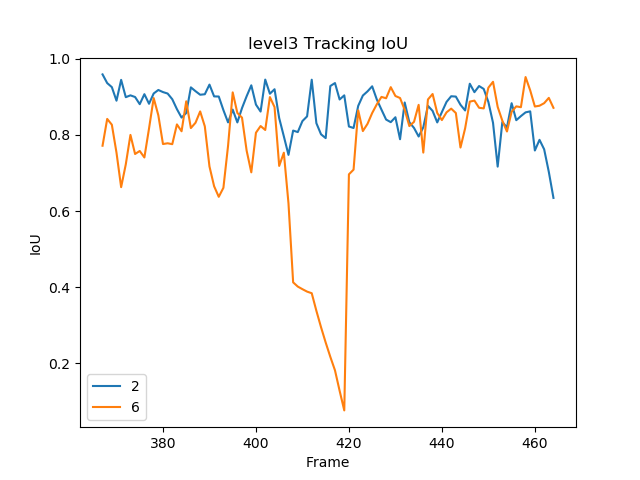
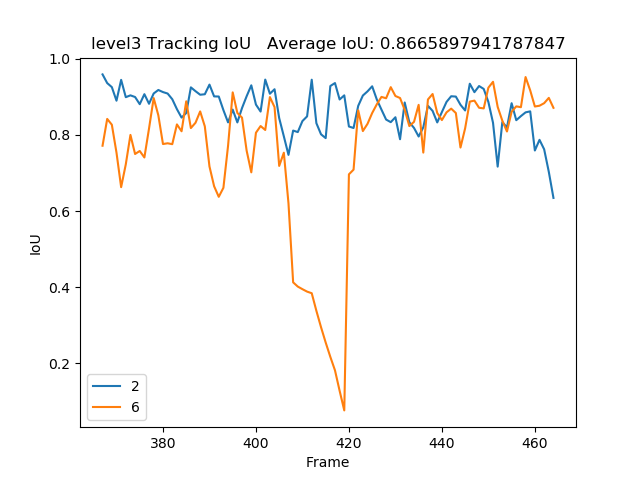
Average IoU

Changed region(s): [[0.125, 0.0625, 0.875, 0.125]]

diff --git a/result_iou.py b/result_iou.py
@@ -58,14 +58,17 @@ def level12():
         frame_label.append(int(detect_list[num].split(',')[1]))
         frame_iou.append(get_iou(list(map(int, detect_list[num].rstrip('\n').split(',')[2:6])), list(map(int, gt_list[num].rstrip('\n').split(',')[2:6]))))
 
-    print(frame_seq[:20])
-    print(frame_iou[:20])
+    # print(frame_seq[:20])
+    # print(frame_iou[:20])
 
-    line = plt.plot(frame_seq, frame_iou)
-    plt.legend(line, frame_label)
-    plt.title(args.folder + " Tracking IoU")
+    average_iou = sum(frame_iou)/len(frame_iou)
+    plt.plot(frame_seq, frame_iou)
+    plt.legend(['20'])
+    plt.title(args.folder + " Tracking IoU   Average IoU: " + str(average_iou))
     plt.xlabel("Frame")
     plt.ylabel("IoU")
+    
+   
     plt.savefig(args.folder + "_result.png")
 
 def level34():
@@ -85,10 +88,10 @@ def level34():
     detect_f.close()
 
     detect_list.sort(key=id)
-    print(len(detect_list))
+    # print(len(detect_list))
 
-    print(gt_list[:10])
-    print(detect_list[:10])
+    # print(gt_list[:10])
+    # print(detect_list[:10])
 
     frame_seq = []
     frame_label_1 = []
@@ -107,10 +110,11 @@ def level34():
     # print(frame_seq[:20])
     # print(frame_iou_1[:20])
 
+    average_iou = ((sum(frame_iou_1)/len(frame_iou_1)) + (sum(frame_iou_1)/len(frame_iou_1)))/2
     plt.plot(frame_seq, frame_iou_1)
     plt.plot(frame_seq, frame_iou_2)
     plt.legend(['2', '6'])
-    plt.title(args.folder + " Tracking IoU")
+    plt.title(args.folder + " Tracking IoU   Average IoU: " + str(average_iou))
     plt.xlabel("Frame")
     plt.ylabel("IoU")
     plt.savefig(args.folder + "_result.png")
@@ -165,12 +169,13 @@ def level56():
     # print(frame_seq[:20])
     # print(frame_iou[:20])
 
+    average_iou = ((sum(frame_iou_1)/len(frame_iou_1)) + (sum(frame_iou_2)/len(frame_iou_2)) + (sum(frame_iou_3)/len(frame_iou_3)) + (sum(frame_iou_4)/len(frame_iou_4)))/4
     plt.plot(frame_seq, frame_iou_1)
     plt.plot(frame_seq, frame_iou_2)
     plt.plot(frame_seq, frame_iou_3)
     plt.plot(frame_seq, frame_iou_4)
     plt.legend(['11', '12', '13', '29'])
-    plt.title(args.folder + " Tracking IoU")
+    plt.title(args.folder + " Tracking IoU   Average IoU: " + str(average_iou))
     plt.xlabel("Frame")
     plt.ylabel("IoU")
     plt.savefig(args.folder + "_result.png")
